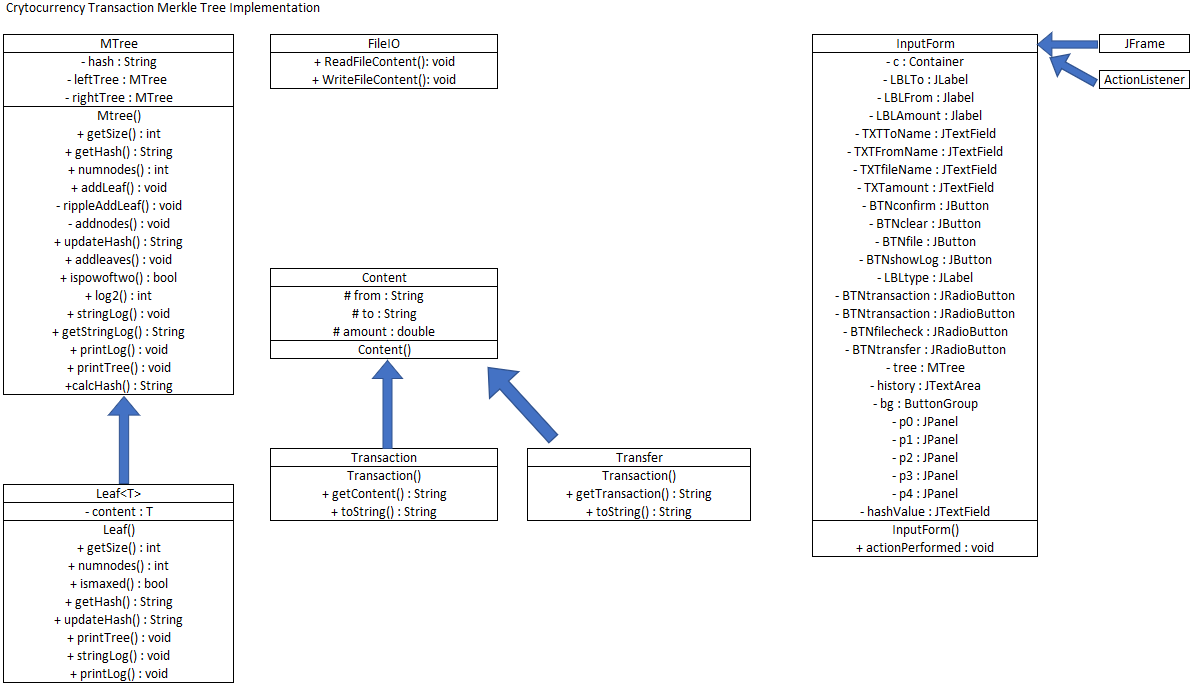
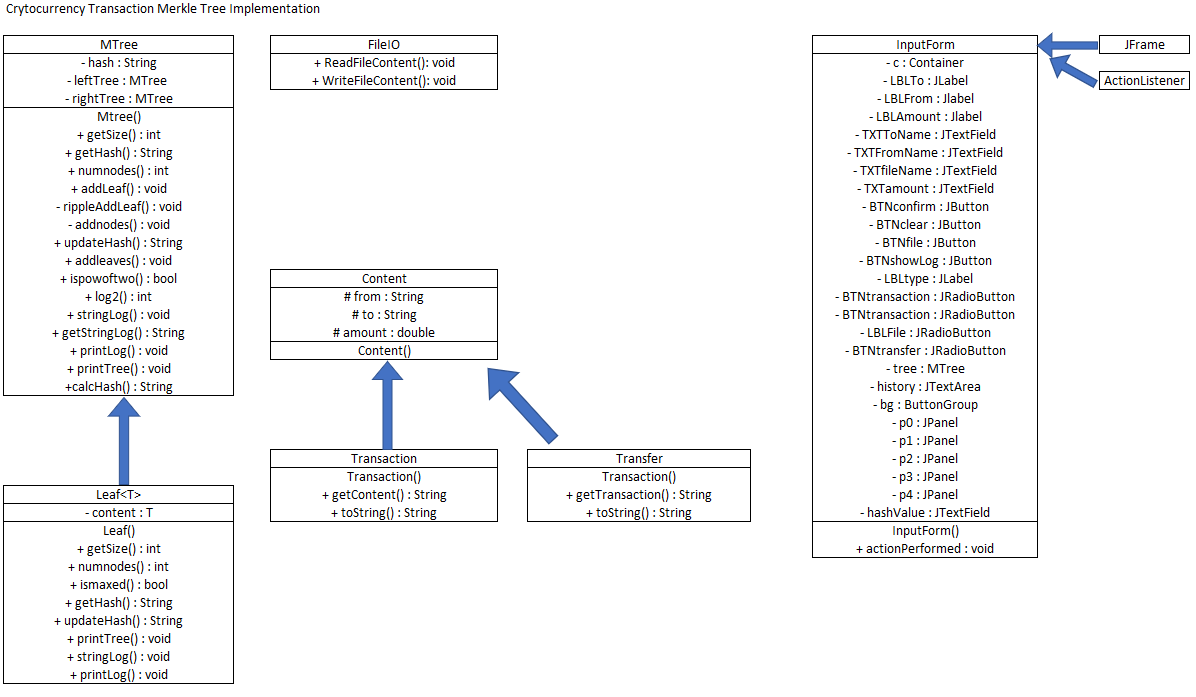
final

diff --git a/MerkleTree/InputForm.java b/MerkleTree/InputForm.java
@@ -25,6 +25,7 @@ public class InputForm extends JFrame implements ActionListener {
 	private JLabel LBLTo;
 	private JLabel LBLFrom;
 	private JLabel LBLAmount;
+	private JLabel LBLFile;
 	private JTextField TXTToName;
 	private JTextField TXTFromName;
 	private JTextField TXTamount;
@@ -33,11 +34,10 @@ public class InputForm extends JFrame implements ActionListener {
 	private JButton BTNclear;
 	private JButton BTNshowLog;
 	private JButton BTNcloseLog;
-	private JButton BTNfile;
 	private JLabel LBLtype;
 	private JRadioButton BTNtransaction;
 	private JRadioButton BTNtransfer;
-	private JRadioButton BTNfilecheck;
+	private JRadioButton BTNfile;
 	private MTree<Content> tree;
 	private JTextArea history;
 	private ButtonGroup bg;
@@ -86,23 +86,24 @@ public class InputForm extends JFrame implements ActionListener {
 		BTNtransaction.addActionListener(this);
 		//c.add(BTNtransaction);
 		p1.add(BTNtransaction, BorderLayout.WEST);
-		this.BTNfilecheck = new JRadioButton("Exchanges from File");
-		BTNfilecheck.setFont(new Font("Monospaced", Font.PLAIN, 15));
-		BTNfilecheck.setSelected(false);
-		BTNfilecheck.addActionListener(this);
-		p1.add(BTNfilecheck, BorderLayout.EAST);
+		this.BTNfile = new JRadioButton("Exchanges from File");
+		BTNfile.setFont(new Font("Monospaced", Font.PLAIN, 15));
+		BTNfile.setSelected(false);
+		//BTNfile.setBorder(new EmptyBorder(0,0,0,200));
+		BTNfile.addActionListener(this);
+		p1.add(BTNfile, BorderLayout.LINE_END);
 		this.BTNtransfer = new JRadioButton("Transfer"); // transfer button
 		BTNtransfer.setFont(new Font("Monospaced", Font.PLAIN, 15));
 		//BTNtransfer.setLocation(400, 85);
 		//BTNtransfer.setSize(200,30);
 		BTNtransfer.setSelected(false);
-		//BTNtransfer.setBorder(new EmptyBorder(0,0,0,200));
+		BTNtransfer.setBorder(new EmptyBorder(0,230,0,0));
 		BTNtransfer.addActionListener(this);
 		p1.add(BTNtransfer, BorderLayout.CENTER);
 		this.bg = new ButtonGroup();
 		bg.add(BTNtransaction);
 		bg.add(BTNtransfer);
-		bg.add(BTNfilecheck);
+		bg.add(BTNfile);
 		c.add(p1);
 		// p2 ################
 		this.p2 = new JPanel();
@@ -151,15 +152,13 @@ public class InputForm extends JFrame implements ActionListener {
 		TXTamount.setBorder(new EmptyBorder(0,20,0,20));
 		p2.add(LBLAmount);
 		p2.add(TXTamount);
-		this.BTNfile = new JButton("Add Exchanges from File"); // button to load file exchanges
-		BTNfile.setOpaque(true);
-		BTNfile.setBackground(Color.lightGray);
-		BTNfile.addActionListener(this);
-		BTNfile.setVisible(false);
+		this.LBLFile = new JLabel("Filename"); // button to load file exchanges
+		LBLFile.setVisible(false);
+		LBLFile.setFont(new Font("Monospaced", Font.PLAIN, 20));
 		this.TXTFileName = new JTextField();
 		TXTFileName.setFont(new Font("Monospaced", Font.PLAIN, 12)); // input for filename
 		TXTFileName.setVisible(false);
-		p2.add(BTNfile);
+		p2.add(LBLFile);
 		p2.add(TXTFileName);
 		c.add(p2);
 		// p3 #####################
@@ -197,6 +196,7 @@ public class InputForm extends JFrame implements ActionListener {
 		history.setSize(10,10);
 		//history.setLocation(300,300);
 		history.setEditable(false);
+		history.setBorder(innerBorder);
 		p4.add(history, BorderLayout.CENTER);
 		p4.setBackground(new Color(100,110,220,100));
 		this.BTNshowLog = new JButton("Show Your Exchange Log"); // show log history button
@@ -229,14 +229,14 @@ public class InputForm extends JFrame implements ActionListener {
 			TXTToName.setVisible(true);
 			LBLAmount.setVisible(true);
 			TXTamount.setVisible(true);
-			BTNfile.setVisible(false);
+			LBLFile.setVisible(false);
 			TXTFileName.setVisible(false);
 		} else if (e.getSource() == BTNtransfer) {
 			LBLFrom.setVisible(false);
 			TXTFromName.setVisible(false);
 			LBLAmount.setVisible(true);
 			TXTamount.setVisible(true);
-			BTNfile.setVisible(false);
+			LBLFile.setVisible(false);
 			TXTFileName.setVisible(false);
 			LBLTo.setVisible(true);
 			TXTToName.setVisible(true);
@@ -245,7 +245,7 @@ public class InputForm extends JFrame implements ActionListener {
 			TXTToName.setText("");
 			TXTamount.setText("");
 		} else if (e.getSource() == BTNconfirm) {
-			if (TXTToName.getText().isEmpty()) {
+			if (TXTToName.getText().isEmpty() && !BTNfile.isSelected()) {
 				JOptionPane.showMessageDialog(null, "Error", "Send to is a required field", JOptionPane.ERROR_MESSAGE);
 				return;
 			}
@@ -264,7 +264,7 @@ public class InputForm extends JFrame implements ActionListener {
 				Transaction t = new Transaction(TXTFromName.getText(), TXTToName.getText(), amt);
 				this.tree.addLeaf(t);
 
-			} else {
+			} else if (BTNtransfer.isSelected()) {
 				double amt;
 				try {
 					amt = Double.parseDouble(TXTamount.getText());
@@ -274,11 +274,24 @@ public class InputForm extends JFrame implements ActionListener {
 				}
 				Transfer t = new Transfer(TXTToName.getText(), amt);
 				this.tree.addLeaf(t);
-			}
+			} else if (BTNfile.isSelected()) {
+				FileIO f = new FileIO();
+				try {
+					f.ReadFileContent(tree, this.TXTFileName.getText());
+					TXTFileName.setText("");
+				} catch (FileNotFoundException e3) {
+					JOptionPane.showMessageDialog(null, "Error", "File: " + TXTFileName.getText() + " not found", JOptionPane.ERROR_MESSAGE);
+					return;
+				}
+			} 
 			if (BTNtransaction.isSelected()) { TXTFromName.setText(TXTToName.getText()); }
-			String submit = TXTFromName.getText() + " -> $" + TXTamount.getText() + " -> " + TXTToName.getText();
-			JOptionPane.showMessageDialog(null, "Exchange Processed", submit, JOptionPane.INFORMATION_MESSAGE);
-		    TXTFromName.setText("");
+			if (BTNfile.isSelected()) {
+				JOptionPane.showMessageDialog(null, "Exchanges Processed", "Exchanged Processed from "+TXTFileName.getText(), JOptionPane.INFORMATION_MESSAGE);
+			} else {
+				String submit = TXTFromName.getText() + " -> $" + TXTamount.getText() + " -> " + TXTToName.getText();
+				JOptionPane.showMessageDialog(null, "Exchange Processed", submit, JOptionPane.INFORMATION_MESSAGE);
+			}
+			TXTFromName.setText("");
 			TXTToName.setText("");
 			TXTamount.setText("");
 		} else if (e.getSource() == BTNshowLog) {
@@ -318,22 +331,15 @@ public class InputForm extends JFrame implements ActionListener {
 			LBLTo.setFont(new Font("Monospaced", Font.PLAIN, 20));
 			LBLAmount.setFont(new Font("Monospaced", Font.BOLD, 25));
 		} else if (e.getSource() == BTNfile) {
-			FileIO f = new FileIO();
-			try {
-				f.ReadFileContent(tree, this.TXTFileName.getText());
-				TXTFileName.setText("");
-			} catch (FileNotFoundException e3) {
-				JOptionPane.showMessageDialog(null, "Error", "File: " + TXTFileName.getText() + " not found", JOptionPane.ERROR_MESSAGE);
-			}
-		} else if (e.getSource() == BTNfilecheck) {
 			LBLFrom.setVisible(false);
 			TXTFromName.setVisible(false);
 			LBLAmount.setVisible(false);
 			TXTamount.setVisible(false);
 			LBLTo.setVisible(false);
 			TXTToName.setVisible(false);
-			BTNfile.setVisible(true);
+			LBLFile.setVisible(true);
 			TXTFileName.setVisible(true);
 		}
 	}
 }
+
